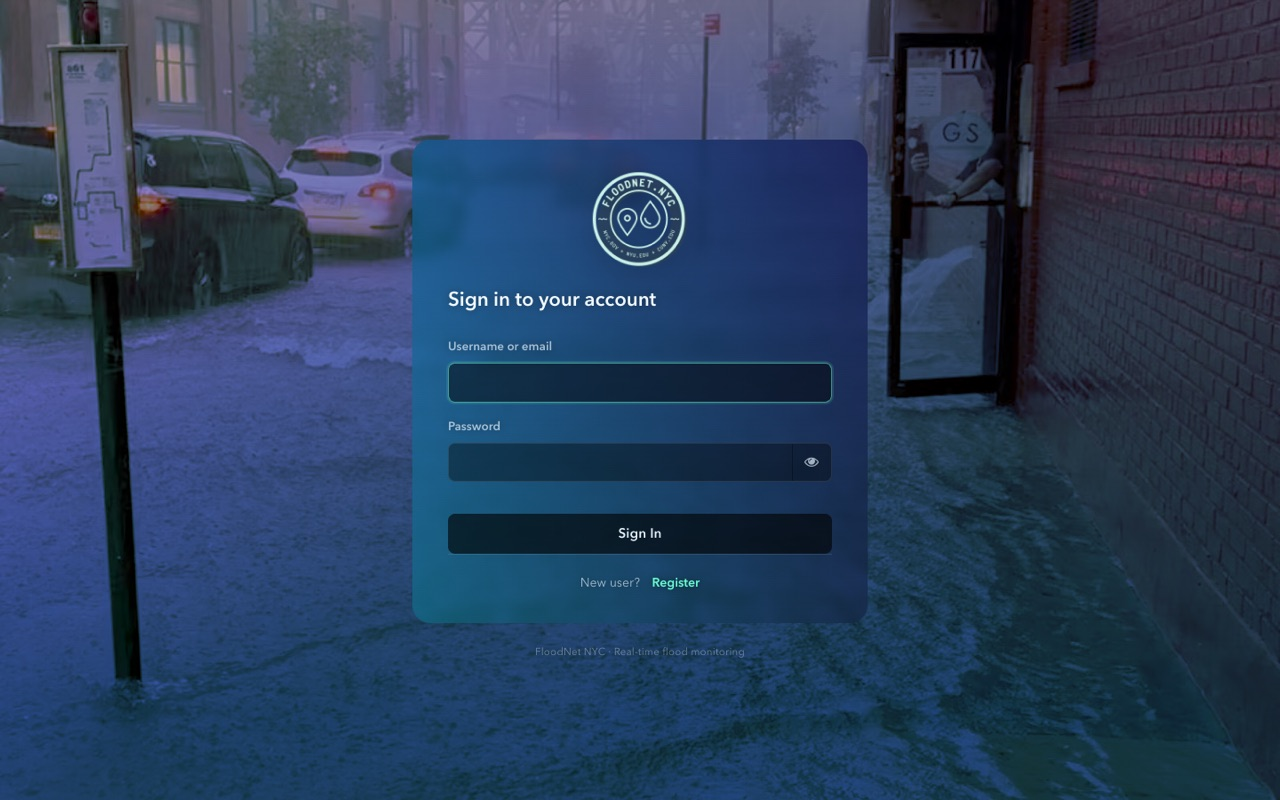
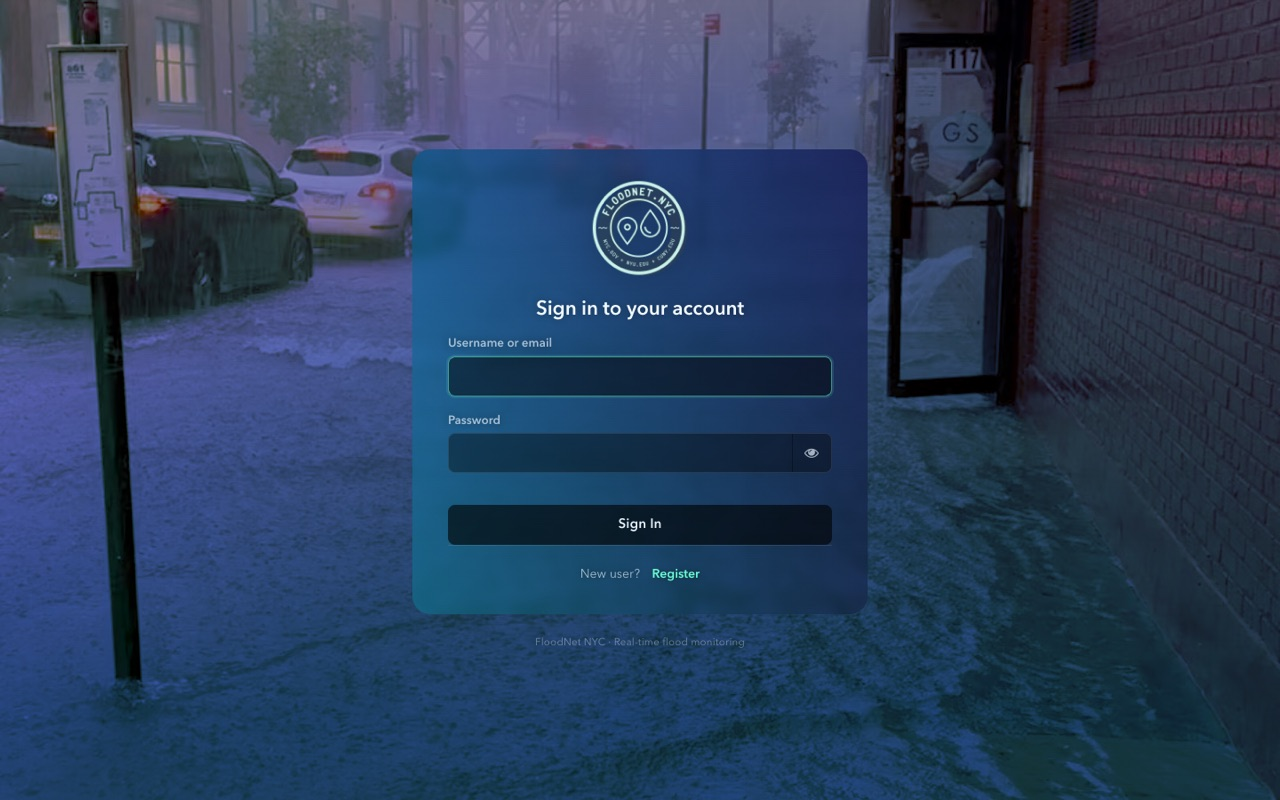
Center the login title and tighten the field rhythm
- #kc-page-title centered, 0.25rem to the form
- label-to-input gap tightened to 0.2rem on login and register
- docs screenshots refreshed from the real Keycloak 26.5.3 deployment

diff --git a/keycloakify/src/login/main.css b/keycloakify/src/login/main.css
@@ -130,13 +130,13 @@ body.kcBodyClass .card-pf .login-pf-header .kcContentWrapperClass > div {
 /* ---------------------------------------------------------------- titles */
 
 body.kcBodyClass #kc-page-title {
-    margin: 0 0 1.15rem;
+    margin: 0 0 0.25rem;
     padding: 0;
     font-size: 1.4rem;
     font-weight: 600;
     line-height: 1.25;
     letter-spacing: -0.005em;
-    text-align: left;
+    text-align: center;
     color: #f2faff;
 }
 
@@ -166,7 +166,7 @@ body.kcBodyClass .form-group {
 body.kcBodyClass .form-group > label,
 body.kcBodyClass .kcLabelWrapperClass label {
     display: block;
-    margin-bottom: 0.4rem;
+    margin-bottom: 0.2rem;
     font-size: 0.84rem;
     font-weight: 600;
     letter-spacing: 0;
